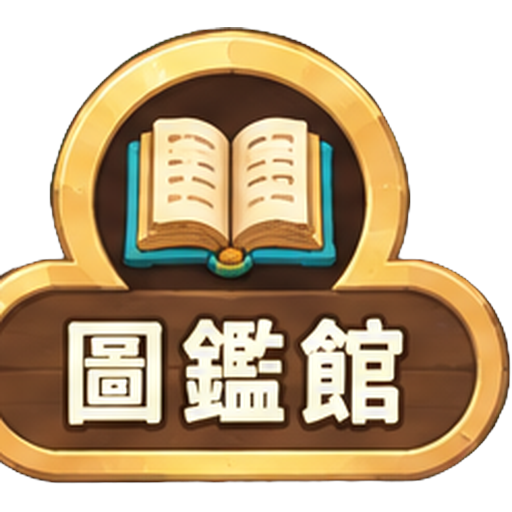
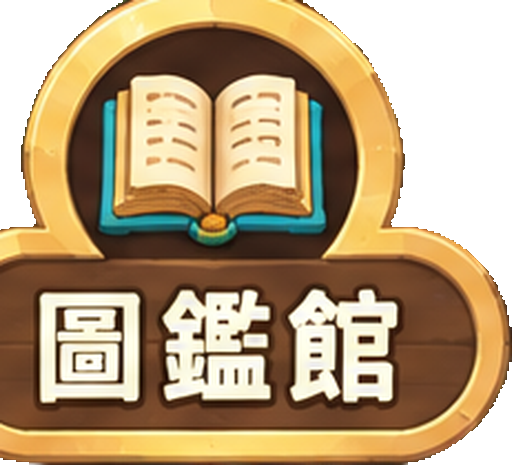
fix: tighten lobby badge crops and clear hotspot chrome
Replace Manus-cropped badge/icon PNGs with tighter transparent crops
and harden .island-hotspot button/img CSS (appearance/box-shadow/background)
so grey square edges no longer show around floating map markers.

diff --git a/index.html b/index.html
@@ -821,6 +821,10 @@
             padding: 0;
             border: 0;
             background: transparent;
+            box-shadow: none;
+            appearance: none;
+            -webkit-appearance: none;
+            color: inherit;
             cursor: pointer;
             -webkit-tap-highlight-color: transparent;
             touch-action: manipulation;
@@ -849,8 +853,12 @@
             width: 100%;
             height: auto;
             display: block;
+            background: transparent;
+            border: 0;
+            box-shadow: none;
             pointer-events: none;
             user-select: none;
+            -webkit-user-drag: none;
         }
         @keyframes island-bob {
             0%, 100% { transform: translateY(0); }
